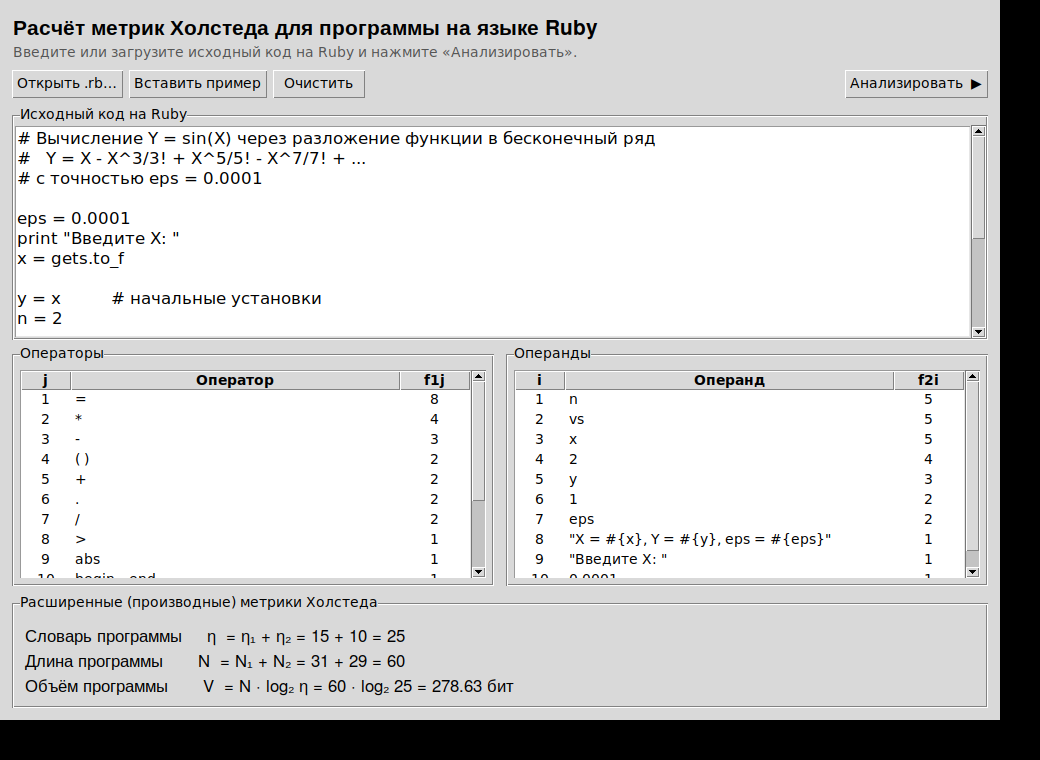
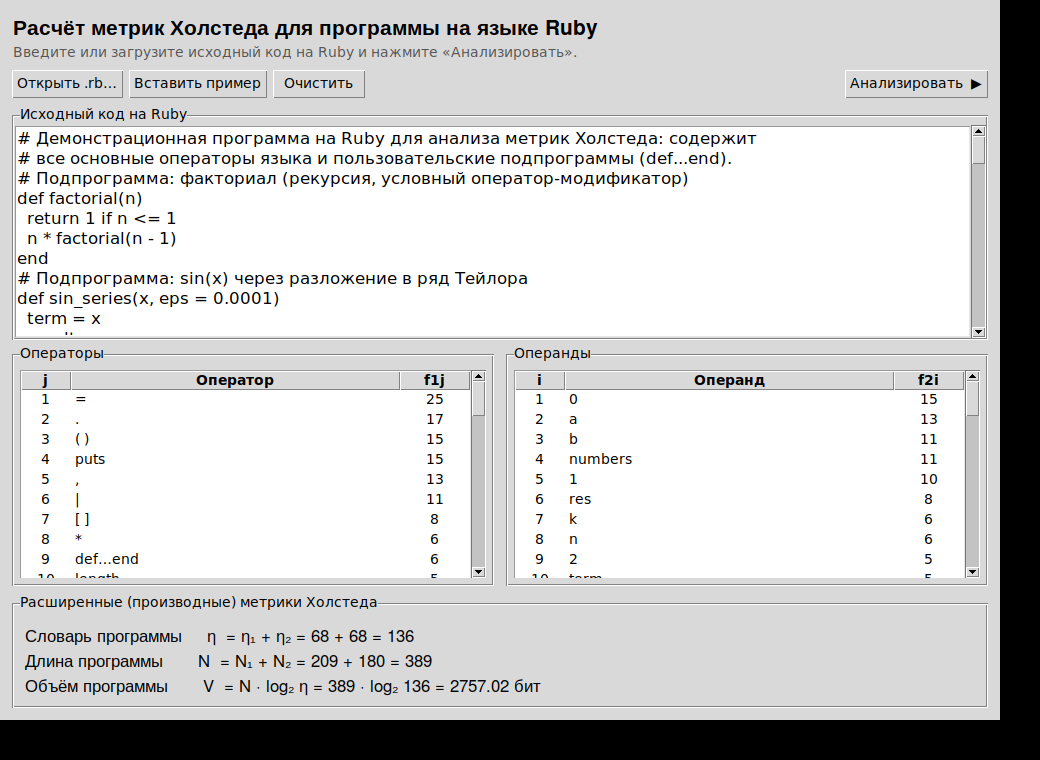
Программа на 99 строк со всеми операторами и подпрограммами; обновлён отчёт и парсер

diff --git a/halstead_ruby.py b/halstead_ruby.py
@@ -488,25 +488,105 @@ class RubyHalsteadAnalyzer:
 #  ГРАФИЧЕСКИЙ ИНТЕРФЕЙС (Tkinter)
 # ======================================================================
 
-SAMPLE_RUBY = '''# Вычисление Y = sin(X) через разложение функции в бесконечный ряд
-#   Y = X - X^3/3! + X^5/5! - X^7/7! + ...
-# с точностью eps = 0.0001
+SAMPLE_RUBY = '''# Демонстрационная программа на Ruby для анализа метрик Холстеда: содержит
+# все основные операторы языка и пользовательские подпрограммы (def...end).
+# Подпрограмма: факториал (рекурсия, условный оператор-модификатор)
+def factorial(n)
+  return 1 if n <= 1
+  n * factorial(n - 1)
+end
+# Подпрограмма: sin(x) через разложение в ряд Тейлора
+def sin_series(x, eps = 0.0001)
+  term = x
+  result = x
+  k = 1
+  while term.abs > eps
+    term = -term * x * x / ((2 * k) * (2 * k + 1))
+    result += term
+    k += 1
+  end
+  result
+end
+# Подпрограмма: наибольший общий делитель (цикл until, остаток от деления)
+def gcd(a, b)
+  until b == 0
+    a, b = b, a % b
+  end
+  a.abs
+end
+# Подпрограмма: классификация числа (оператор выбора case...when)
+def classify(num)
+  case
+  when num < 0 then "отрицательное"
+  when num == 0 then "ноль"
+  when num.even? then "чётное положительное"
+  else "нечётное положительное"
+  end
+end
+# Подпрограмма с блоком: возводит элементы в квадрат (yield, цикл for)
+def each_squared(list)
+  count = 0
+  for item in list
+    yield(item ** 2)
+    count += 1
+  end
+  count
+end
+# Подпрограмма: побитовые операции (& | ^ ~ << >>)
+def bitwise_demo(a, b)
+  res = {}
+  res[:and] = a & b
+  res[:or]  = a | b
+  res[:xor] = a ^ b
+  res[:not] = ~a
+  res[:shl] = a << 2
+  res[:shr] = a >> 1
+  res
+end
 
-eps = 0.0001
-print "Введите X: "
-x = gets.to_f
-
-y = x          # начальные установки
-n = 2
-vs = x
-
+# ------------------------- Основная программа -------------------------
+numbers = [5, -3, 8, 0, 12, 7]
+total = 0
+product = 1
+numbers.each do |value|
+  total += value
+  product *= value unless value == 0
+end
+average = numbers.length > 0 ? total.to_f / numbers.length : 0.0
+valid = !numbers.empty? && (total >= 0 || product < 0)
+sorted = numbers.sort { |a, b| a <=> b }
+puts "Числа: #{numbers.join(', ')}"
+puts "Сумма = #{total}, произведение = #{product}, среднее = #{average.round(2)}"
+puts "Мин = #{sorted.first}, макс = #{sorted.last}, признак = #{valid}"
+puts "Все положительные" if sorted.first > 0 and sorted.last > 0
+puts "Есть нули" if not numbers.all? { |v| v != 0 }
+step = total
+step -= sorted.first
+step /= 2
+puts "Контрольное значение = #{step}"
+for k in 0...numbers.length
+  n = numbers[k]
+  sign = n >= 0 ? "+" : "-"
+  puts "#{sign} #{n} — #{classify(n)}"
+end
+puts "5! = #{factorial(5)}"
+puts "sin(1.0) ≈ #{sin_series(1.0).round(5)}"
+puts "НОД(48, 36) = #{gcd(48, 36)}"
+processed = each_squared(1..3) do |sq|
+  print "#{sq} "
+end
+puts
+puts "Обработано элементов: #{processed}"
+bitwise_demo(12, 10).each do |name, val|
+  puts "#{name} => #{val}"
+end
 begin
-  vs = -vs * x * x / (2 * n - 1) / (2 * n - 2)   # формирование слагаемого
-  n = n + 1
-  y = y + vs
-end while vs.abs > eps                            # выход по условию
-
-puts "X = #{x}, Y = #{y}, eps = #{eps}"
+  risky = 10 / (numbers.length - numbers.length)
+rescue ZeroDivisionError => e
+  puts "Ошибка: деление на ноль"
+ensure
+  puts "Готово."
+end
 '''
 
 

diff --git a/sample_program.rb b/sample_program.rb
@@ -1,0 +1,99 @@
+# Демонстрационная программа на Ruby для анализа метрик Холстеда: содержит
+# все основные операторы языка и пользовательские подпрограммы (def...end).
+# Подпрограмма: факториал (рекурсия, условный оператор-модификатор)
+def factorial(n)
+  return 1 if n <= 1
+  n * factorial(n - 1)
+end
+# Подпрограмма: sin(x) через разложение в ряд Тейлора
+def sin_series(x, eps = 0.0001)
+  term = x
+  result = x
+  k = 1
+  while term.abs > eps
+    term = -term * x * x / ((2 * k) * (2 * k + 1))
+    result += term
+    k += 1
+  end
+  result
+end
+# Подпрограмма: наибольший общий делитель (цикл until, остаток от деления)
+def gcd(a, b)
+  until b == 0
+    a, b = b, a % b
+  end
+  a.abs
+end
+# Подпрограмма: классификация числа (оператор выбора case...when)
+def classify(num)
+  case
+  when num < 0 then "отрицательное"
+  when num == 0 then "ноль"
+  when num.even? then "чётное положительное"
+  else "нечётное положительное"
+  end
+end
+# Подпрограмма с блоком: возводит элементы в квадрат (yield, цикл for)
+def each_squared(list)
+  count = 0
+  for item in list
+    yield(item ** 2)
+    count += 1
+  end
+  count
+end
+# Подпрограмма: побитовые операции (& | ^ ~ << >>)
+def bitwise_demo(a, b)
+  res = {}
+  res[:and] = a & b
+  res[:or]  = a | b
+  res[:xor] = a ^ b
+  res[:not] = ~a
+  res[:shl] = a << 2
+  res[:shr] = a >> 1
+  res
+end
+
+# ------------------------- Основная программа -------------------------
+numbers = [5, -3, 8, 0, 12, 7]
+total = 0
+product = 1
+numbers.each do |value|
+  total += value
+  product *= value unless value == 0
+end
+average = numbers.length > 0 ? total.to_f / numbers.length : 0.0
+valid = !numbers.empty? && (total >= 0 || product < 0)
+sorted = numbers.sort { |a, b| a <=> b }
+puts "Числа: #{numbers.join(', ')}"
+puts "Сумма = #{total}, произведение = #{product}, среднее = #{average.round(2)}"
+puts "Мин = #{sorted.first}, макс = #{sorted.last}, признак = #{valid}"
+puts "Все положительные" if sorted.first > 0 and sorted.last > 0
+puts "Есть нули" if not numbers.all? { |v| v != 0 }
+step = total
+step -= sorted.first
+step /= 2
+puts "Контрольное значение = #{step}"
+for k in 0...numbers.length
+  n = numbers[k]
+  sign = n >= 0 ? "+" : "-"
+  puts "#{sign} #{n} — #{classify(n)}"
+end
+puts "5! = #{factorial(5)}"
+puts "sin(1.0) ≈ #{sin_series(1.0).round(5)}"
+puts "НОД(48, 36) = #{gcd(48, 36)}"
+processed = each_squared(1..3) do |sq|
+  print "#{sq} "
+end
+puts
+puts "Обработано элементов: #{processed}"
+bitwise_demo(12, 10).each do |name, val|
+  puts "#{name} => #{val}"
+end
+begin
+  risky = 10 / (numbers.length - numbers.length)
+rescue ZeroDivisionError => e
+  puts "Ошибка: деление на ноль"
+ensure
+  puts "Готово."
+end

diff --git a/README.md b/README.md
@@ -9,7 +9,9 @@
 | Файл | Назначение |
 |------|------------|
 | `halstead_ruby.py` | Сама программа (парсер + графический интерфейс на Tkinter) |
-| `sin_ruby.rb` | Пример кода на Ruby для анализа (аналог примера sin(x) из методички) |
+| `sample_program.rb` | Пример кода на Ruby для анализа (~99 строк: все основные операторы языка и 6 пользовательских подпрограмм) |
+| `Отчёт_метрики_Холстеда_Ruby.docx` | Отчёт с таблицей ручного расчёта метрик |
+| `interface_preview.png` | Скриншот интерфейса |
 | `README.md` | Этот файл — инструкция по запуску |
 
 ## Что считает программа
@@ -63,28 +65,27 @@
 ## Как пользоваться
 
 1. В окне уже вставлен пример кода. Можно также нажать **«Открыть .rb…»**
-   и выбрать файл `sin_ruby.rb` (или любой свой `.rb`-файл), либо
+   и выбрать файл `sample_program.rb` (или любой свой `.rb`-файл), либо
    вставить код вручную, либо нажать **«Вставить пример»**.
 2. Нажмите **«Анализировать ▶»**.
 3. Слева появится таблица операторов (j, Оператор, f₁ⱼ) с итогом η₁ и N₁,
    справа — таблица операндов (i, Операнд, f₂ᵢ) с итогом η₂ и N₂.
    Внизу — три расширенные метрики η, N, V.
 
-## Результат для примера `sin_ruby.rb`
+## Результат для примера `sample_program.rb`
 
 | Метрика | Значение |
 |---------|----------|
-| η₁ (словарь операторов) | 15 |
-| η₂ (словарь операндов) | 10 |
-| N₁ (число операторов) | 31 |
-| N₂ (число операндов) | 29 |
-| η = η₁ + η₂ | 25 |
-| N = N₁ + N₂ | 60 |
-| V = N · log₂ η | ≈ 278,63 бит |
+| η₁ (словарь операторов) | 68 |
+| η₂ (словарь операндов) | 68 |
+| N₁ (число операторов) | 209 |
+| N₂ (число операндов) | 180 |
+| η = η₁ + η₂ | 136 |
+| N = N₁ + N₂ | 389 |
+| V = N · log₂ η | ≈ 2757,02 бит |
 
-Для сравнения, тот же алгоритм на Паскале в методичке даёт
-η₁ = 14, η₂ = 7, N₁ = 33, N₂ = 28, η = 21, N = 61, V ≈ 268 —
-значения близки, различия объясняются синтаксисом языков.
+Подробная таблица ручного расчёта (все операторы и операнды с частотами)
+приведена в файле `Отчёт_метрики_Холстеда_Ruby.docx`.
 
 ## Правила выделения операторов и операндов (для Ruby)
 
